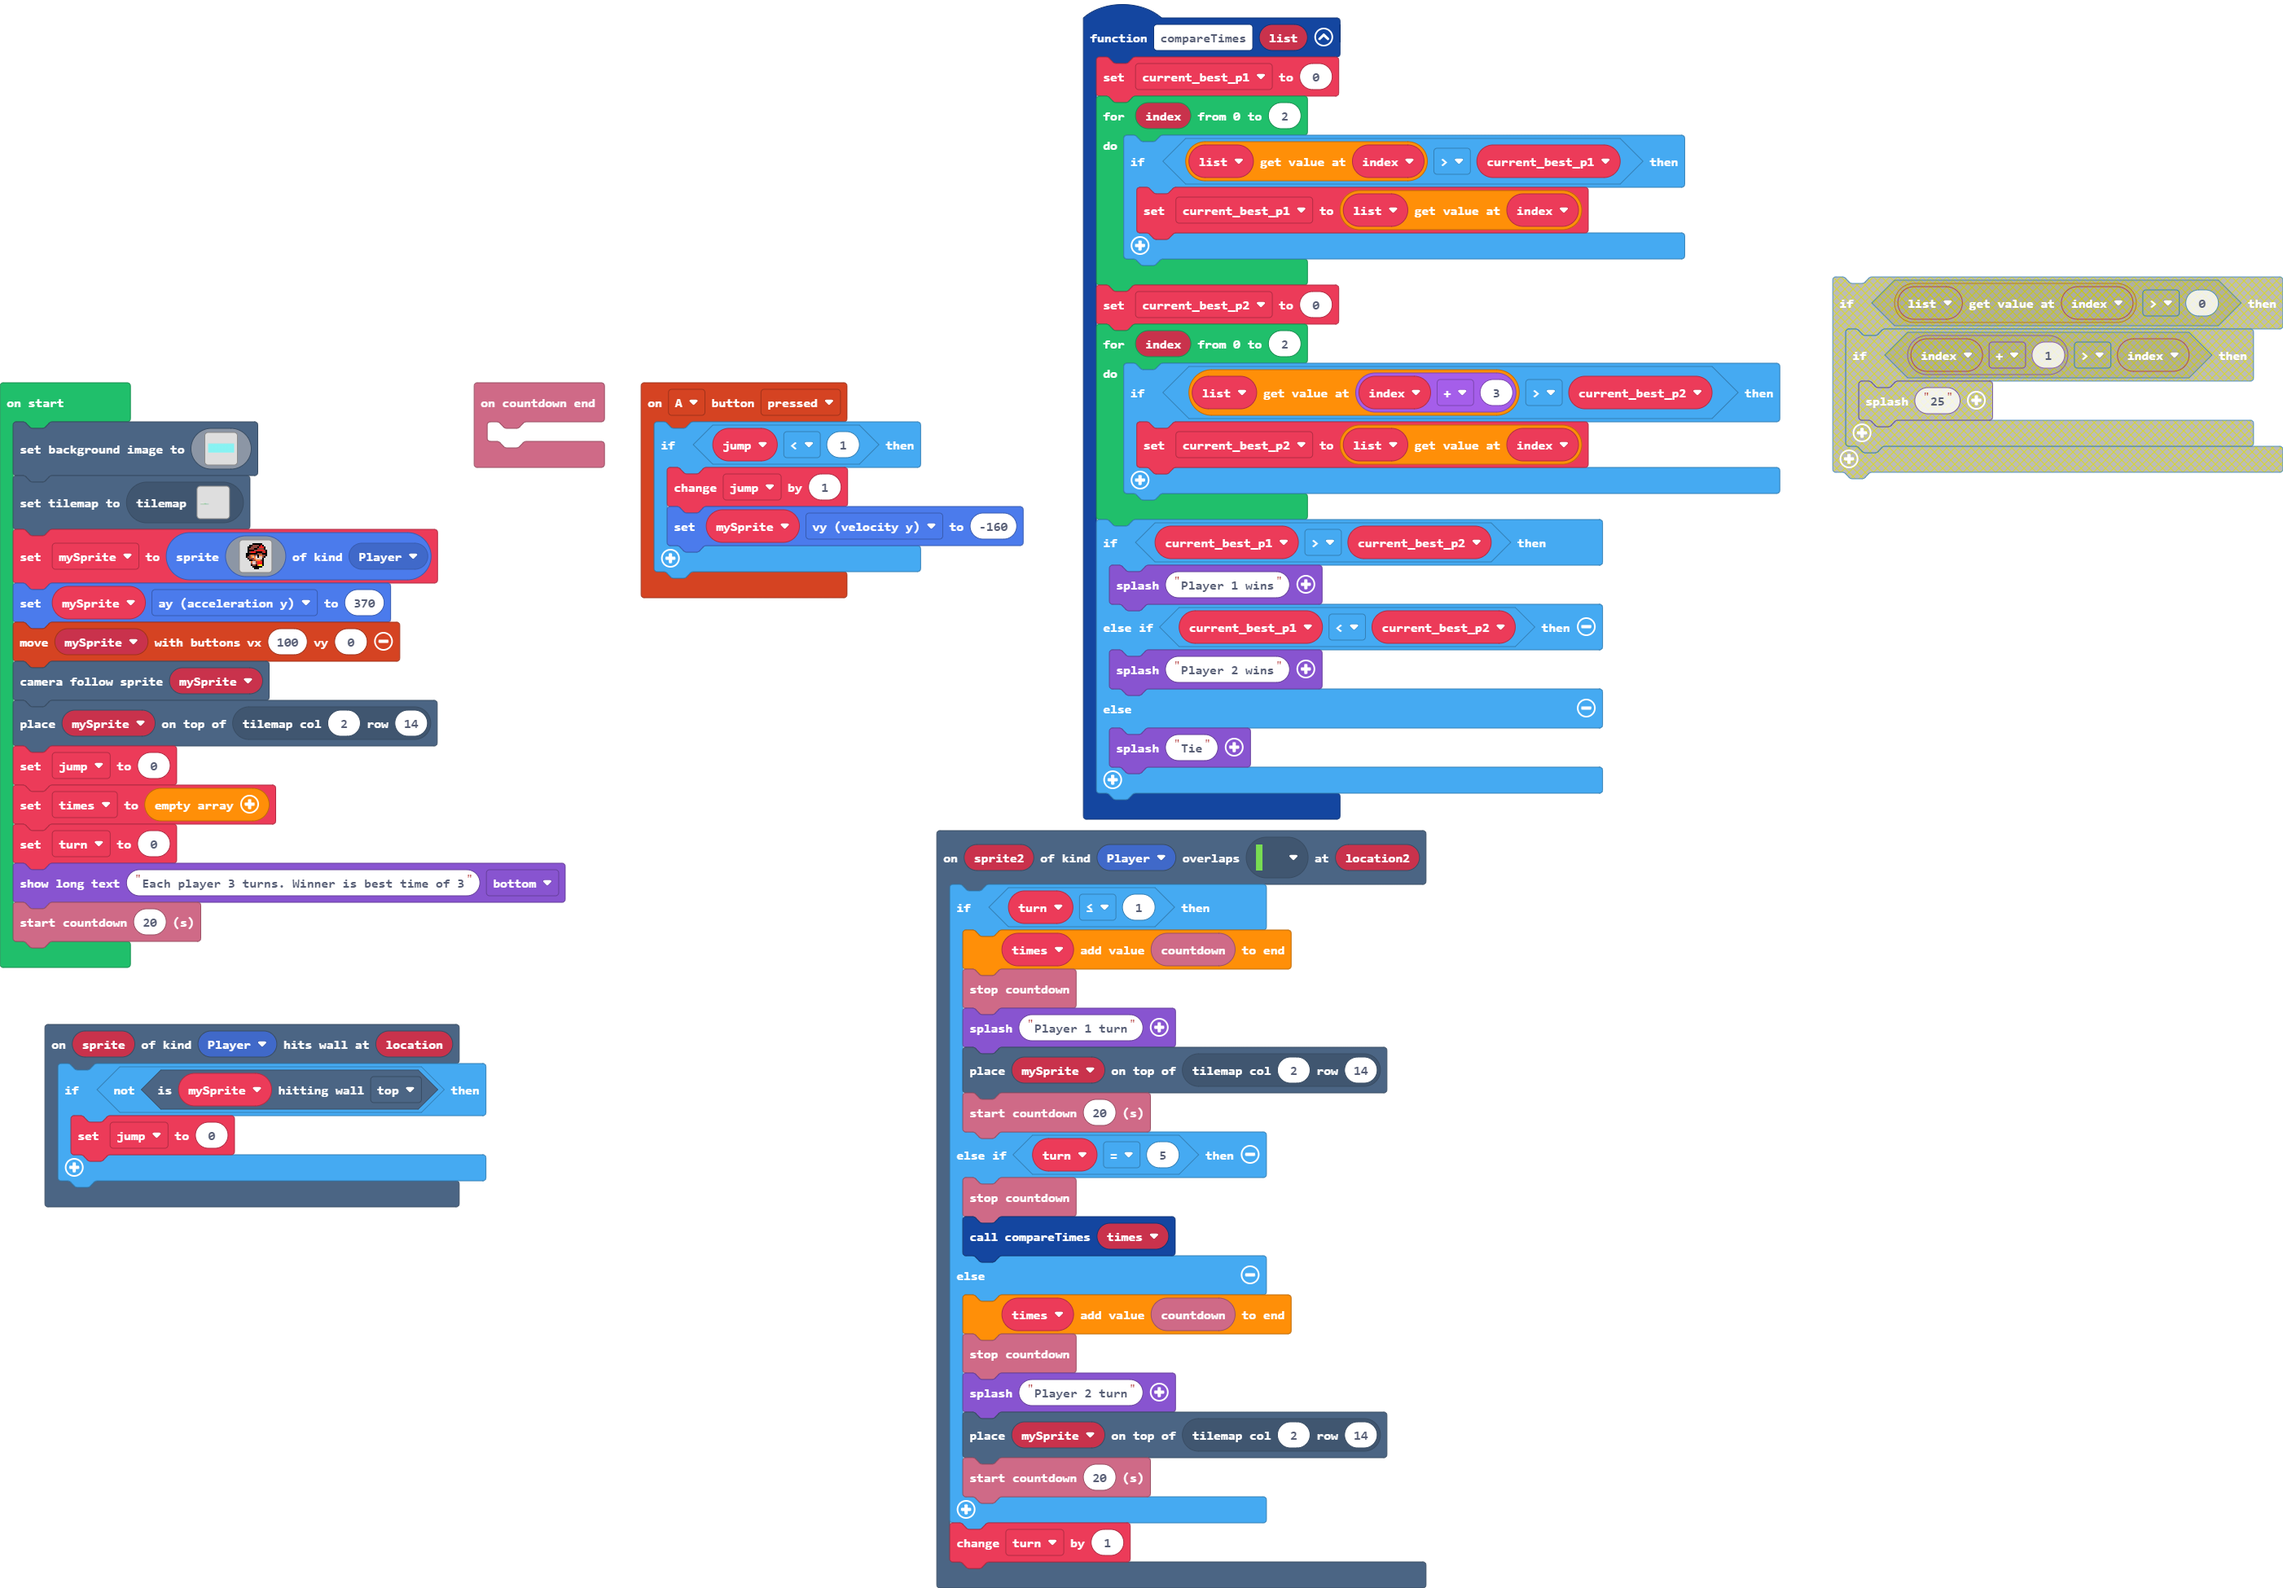
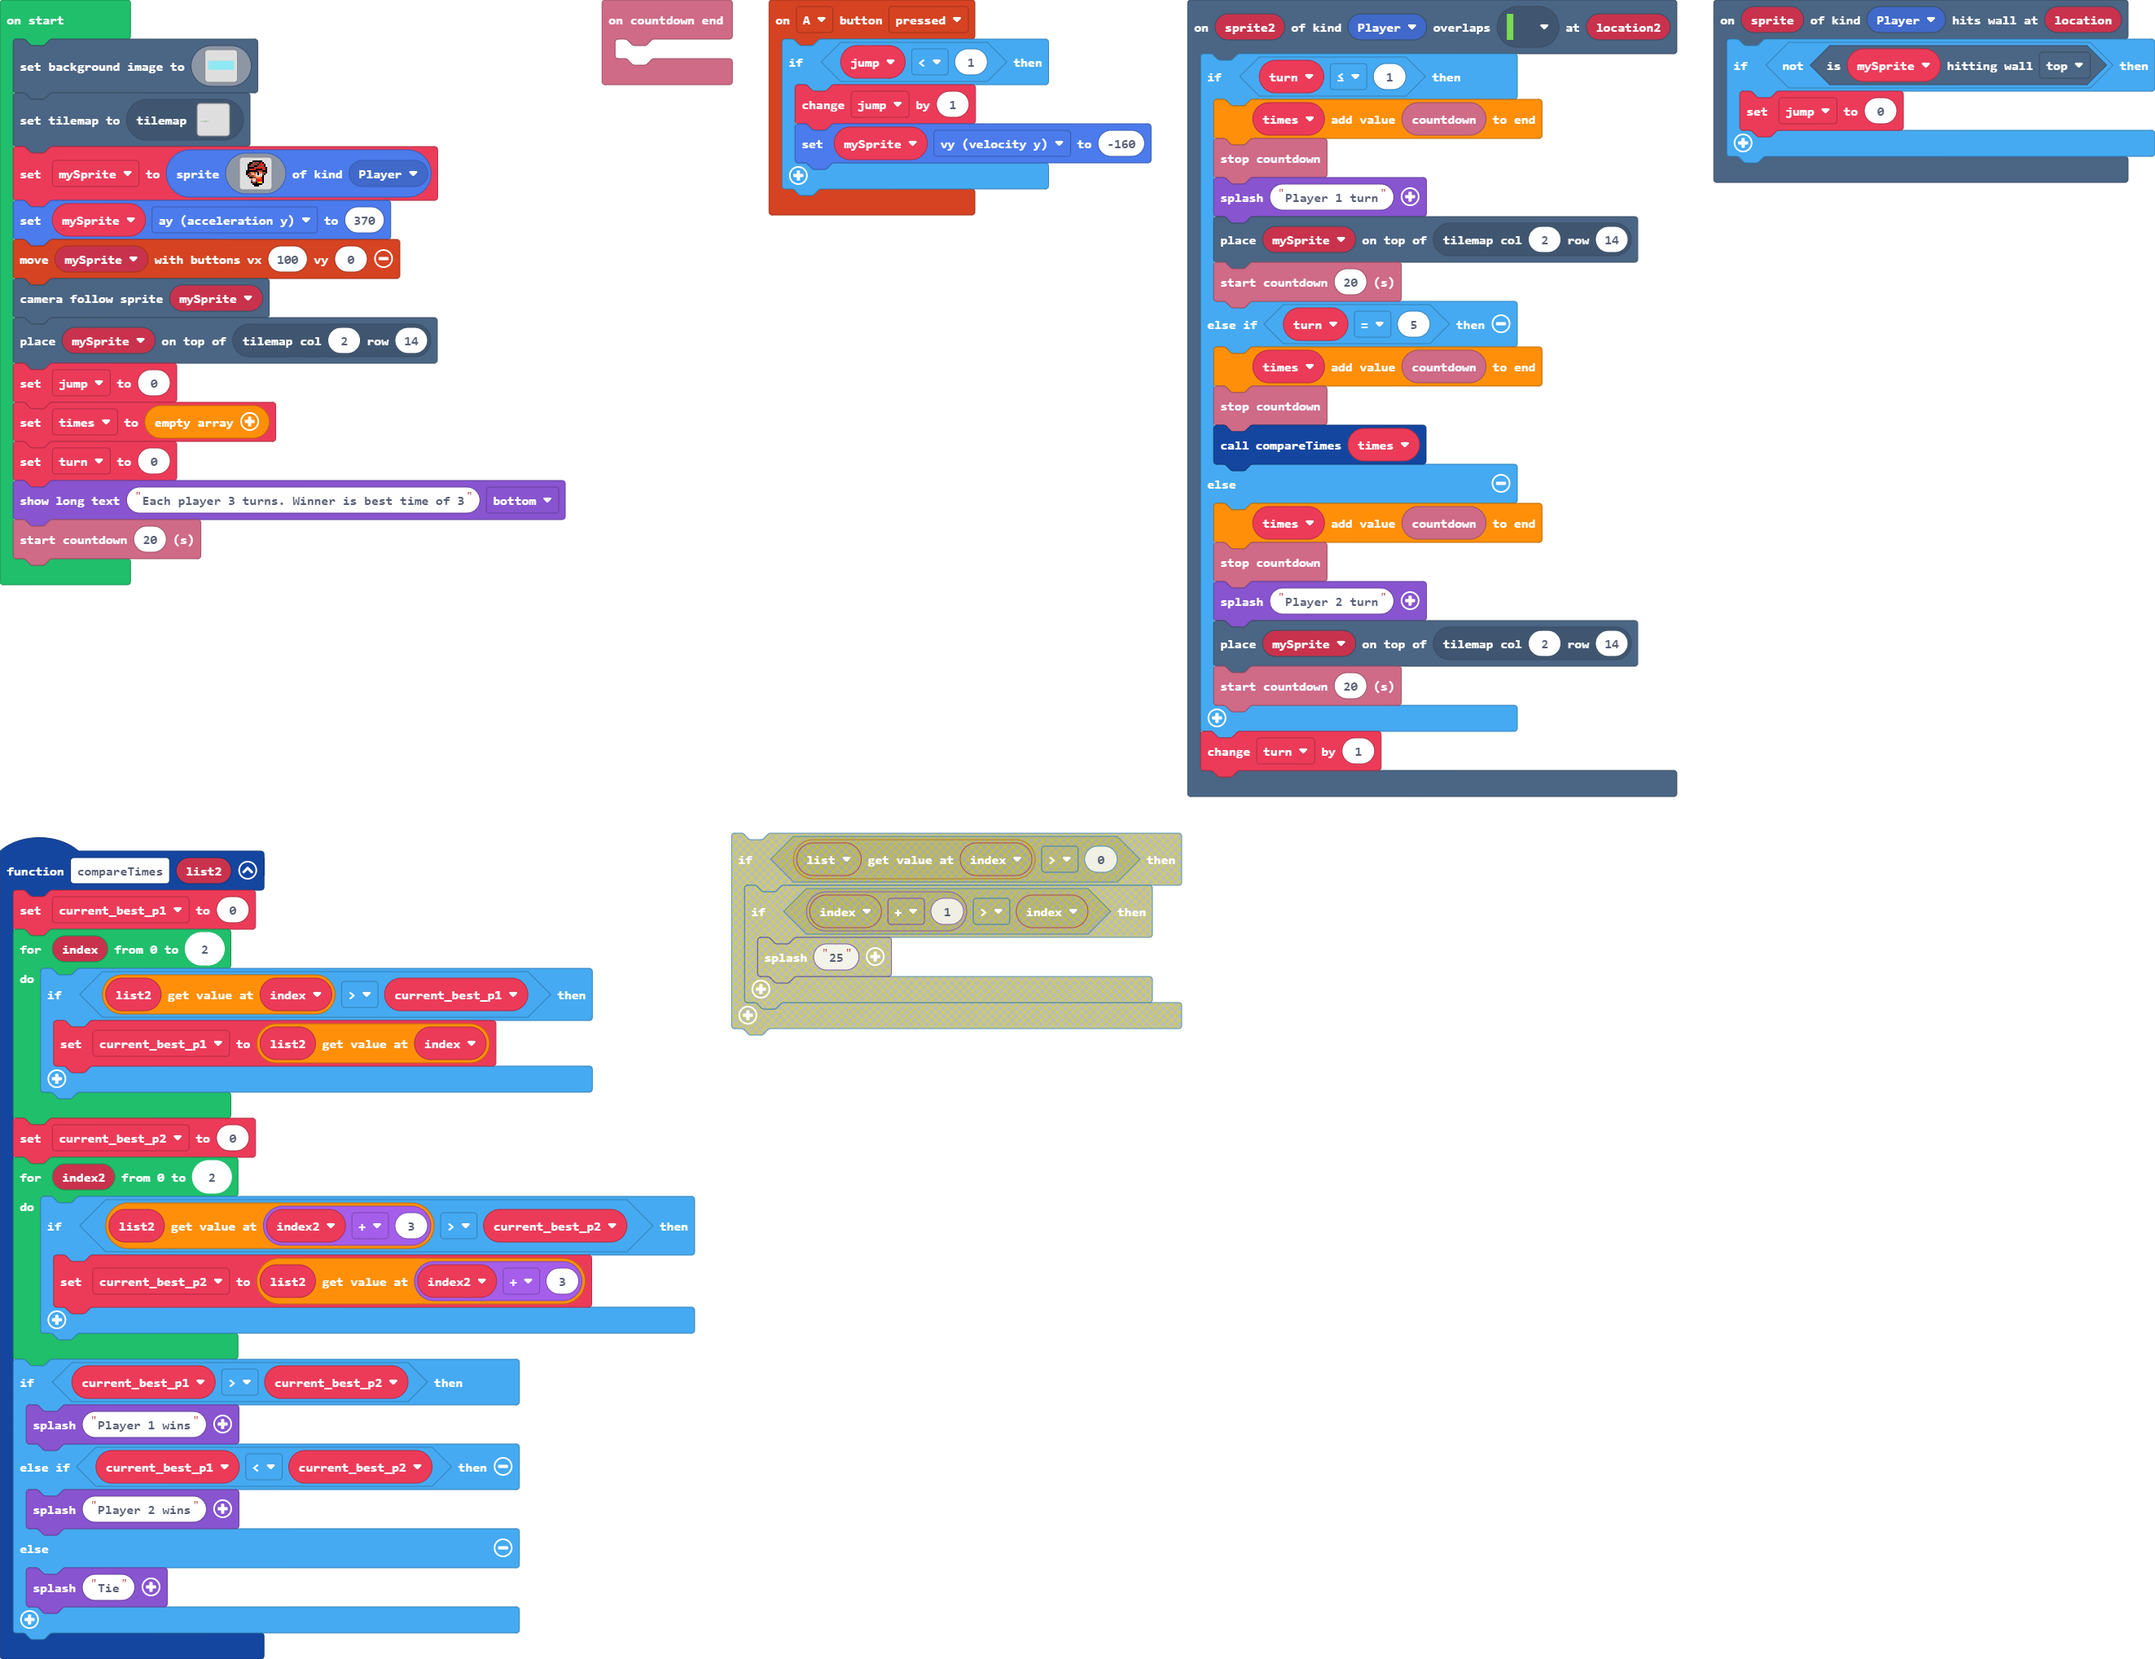
Update main.blocks, main.ts, main.py

diff --git a/main.ts b/main.ts
@@ -12,17 +12,17 @@ controller.A.onEvent(ControllerButtonEvent.Pressed, function () {
 info.onCountdownEnd(function () {
 	
 })
-function compareTimes (list: number[]) {
+function compareTimes (list2: number[]) {
     current_best_p1 = 0
     for (let index = 0; index <= 2; index++) {
-        if (list[index] > current_best_p1) {
-            current_best_p1 = list[index]
+        if (list2[index] > current_best_p1) {
+            current_best_p1 = list2[index]
         }
     }
     current_best_p2 = 0
-    for (let index = 0; index <= 2; index++) {
-        if (list[index + 3] > current_best_p2) {
-            current_best_p2 = list[index]
+    for (let index2 = 0; index2 <= 2; index2++) {
+        if (list2[index2 + 3] > current_best_p2) {
+            current_best_p2 = list2[index2 + 3]
         }
     }
     if (current_best_p1 > current_best_p2) {
@@ -41,6 +41,7 @@ scene.onOverlapTile(SpriteKind.Player, assets.tile`myTile2`, function (sprite2, 
         tiles.placeOnTile(mySprite, tiles.getTileLocation(2, 14))
         info.startCountdown(20)
     } else if (turn == 5) {
+        times.push(info.countdown())
         info.stopCountdown()
         compareTimes(times)
     } else {

diff --git a/main.py b/main.py
@@ -4,30 +4,63 @@ def on_hit_wall(sprite, location):
         jump = 0
 scene.on_hit_wall(SpriteKind.player, on_hit_wall)
 
-def on_up_pressed():
+def on_a_pressed():
     global jump
     if jump < 1:
         jump += 1
         mySprite.vy = -160
-controller.up.on_event(ControllerButtonEvent.PRESSED, on_up_pressed)
+controller.A.on_event(ControllerButtonEvent.PRESSED, on_a_pressed)
 
 def on_countdown_end():
     pass
 info.on_countdown_end(on_countdown_end)
 
-def doSomething(num: number):
-    pass
+def compareTimes(list2: List[number]):
+    global current_best_p1, current_best_p2
+    current_best_p1 = 0
+    for index in range(3):
+        if list2[index] > current_best_p1:
+            current_best_p1 = list2[index]
+    current_best_p2 = 0
+    for index2 in range(3):
+        if list2[index2 + 3] > current_best_p2:
+            current_best_p2 = list2[index2 + 3]
+    if current_best_p1 > current_best_p2:
+        game.splash("Player 1 wins")
+    elif current_best_p1 < current_best_p2:
+        game.splash("Player 2 wins")
+    else:
+        game.splash("Tie")
 
 def on_overlap_tile(sprite2, location2):
-    timeList.append(info.countdown())
-    info.stop_countdown()
+    global turn
+    if turn <= 1:
+        times.append(info.countdown())
+        info.stop_countdown()
+        game.splash("Player 1 turn")
+        tiles.place_on_tile(mySprite, tiles.get_tile_location(2, 14))
+        info.start_countdown(20)
+    elif turn == 5:
+        times.append(info.countdown())
+        info.stop_countdown()
+        compareTimes(times)
+    else:
+        times.append(info.countdown())
+        info.stop_countdown()
+        game.splash("Player 2 turn")
+        tiles.place_on_tile(mySprite, tiles.get_tile_location(2, 14))
+        info.start_countdown(20)
+    turn += 1
 scene.on_overlap_tile(SpriteKind.player,
     assets.tile("""
         myTile2
     """),
     on_overlap_tile)
 
-timeList: List[number] = []
+current_best_p2 = 0
+current_best_p1 = 0
+turn = 0
+times: List[number] = []
 jump = 0
 mySprite: Sprite = None
 scene.set_background_image(img("""
@@ -179,9 +212,8 @@ controller.move_sprite(mySprite, 100, 0)
 scene.camera_follow_sprite(mySprite)
 tiles.place_on_tile(mySprite, tiles.get_tile_location(2, 14))
 jump = 0
-timeList = []
-game.splash("Press to start")
-info.set_score(20)
+times = []
+turn = 0
+game.show_long_text("Each player 3 turns. Winner is best time of 3",
+    DialogLayout.BOTTOM)
 info.start_countdown(20)
-if True:
-    pass
